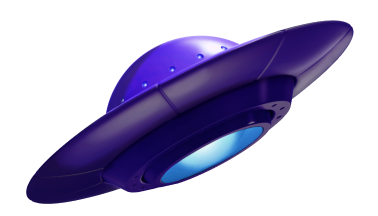
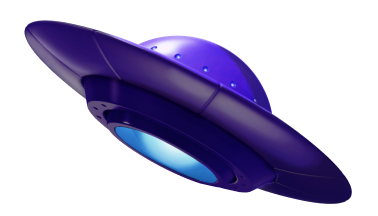
actualizacion del slider

diff --git a/src/app/components/slider/slider.component.html b/src/app/components/slider/slider.component.html
@@ -1,26 +1,45 @@
-<div class="row parallax-hidden section relative">
+<div class="row section relative slider_content">
   <div class="col">
-    <div class="absolute title_slider center">
-      <h1 class="title">
-        OVNISOLUTIONS
-      </h1>
-      <br>
-      <br>
-      <p class="subtitle">
-        Somos un equipo multidisciplinario de diseño y desarrollo web, trabajamos para darte soluciones fuera de este mundo.
-      </p>
+    <div class="row">
+      <div class="col">
+        <div class="absolute title_slider center">
+          <h1 class="title">OVNISOLUTIONS</h1>
+          <br />
+          <p class="slogan">Soluciones fuera de este mundo.</p>
+        </div>
+      </div>
     </div>
-    <ngx-parallax-scroll [config]="ParallaxSliderConfBackground" class="d-none d-md-block absolute moon_slider center">
-      <img src="assets/image/backgrounds/moon_top.png">
-    </ngx-parallax-scroll>
-    <ngx-parallax-scroll [config]="ParallaxSliderConfOvni"  class="d-none d-md-block absolute ovni_slider">
-      <img src="assets/image/backgrounds/ovni_slider.png">
-    </ngx-parallax-scroll>
-    <ngx-parallax-scroll [config]="ParallaxSliderConfPlanet"  class="d-none d-md-block absolute planet_slider">
-      <img src="assets/image/backgrounds/planeta_morado.png">
-    </ngx-parallax-scroll>
-    <ngx-parallax-scroll [config]="ParallaxSliderConfBackground" class="d-none d-md-block">
-      <img src="assets/image/backgrounds/slider.png" class="background slider relative">
-    </ngx-parallax-scroll>
+    <div class="row">
+      <div class="col">
+        <ngx-parallax-scroll
+          [config]="ParallaxSliderConfOvni"
+          class="d-none d-md-block absolute ovni_slider"
+        >
+          <img src="assets/image/backgrounds/ovni_slider.png" />
+        </ngx-parallax-scroll>
+        <div class="star_body d-flex">
+          <div class="tail"></div>
+          <div class="star"></div>
+        </div>
+        <ngx-parallax-scroll
+          [config]="ParallaxSliderConfBackground"
+          class="d-none d-md-block absolute planet"
+        >
+          <img src="assets/image/backgrounds/planet.png" />
+        </ngx-parallax-scroll>
+      </div>
+    </div>
+    <div class="row objetives">
+      <div class="col text-white pe-1 slogan">
+        Somos un equipo multidisciplinario de diseño y desarrollo web,
+        trabajamos para darte soluciones fuera de este mundo.
+      </div>
+      <div class="col ps-1 text-gray">
+        Ofreciendo los servicios de Diseño gràfico y desarrollo web con el
+        objetivo de potenciar la identidad corpoorativa. de tu empresa. Somos un
+        un equipo joven, talentoso y destacado en las áreas del diseño e la
+        informática.
+      </div>
+    </div>
   </div>
 </div>

diff --git a/src/app/components/slider/slider.component.scss b/src/app/components/slider/slider.component.scss
@@ -1,5 +1,5 @@
-.text-justify {
-  text-align: justify;
+.slogan {
+  font-size: 20px;
 }
 
 .row {
@@ -12,64 +12,108 @@
   padding: 0px;
 }
 
-.parallax-hidden {
-  overflow: hidden;
-}
-
 .section {
-  height: 650px;
+  height: 850px;
   overflow: hidden;
 }
 
-img.background {
-  width: 100%;
-  z-index: 0;
-  // min-height: 100% !important;
+.objetives {
+  position: relative;
+  padding-left: 450px;
+  padding-right: 450px;
+  top: 700px;
 }
 
 .relative {
   position: relative;
 }
 
-.slider {
-  top: -10px;
+.slider_content {
+  background: #0c0c0c;
+}
+
+.star_body {
+  position: absolute;
+  transform: rotate(25.1deg);
+  animation: shooting-star 20s linear infinite;
+}
+
+.tail {
+  width: 200px;
+  height: 1px;
+  background: linear-gradient(
+    90deg,
+    transparent 10%,
+    40%,
+    #fff 90%,
+    #b700ff 100%
+  );
+  box-shadow: 0px 0px 40px 0px #b700ff, 0px 0px 40px #00bbff,
+    0px 0px 0px #0c0c0c00;
+}
+
+.star {
+  width: 2px;
+  height: 2px;
+  background: rgba(183, 0, 255, 0.7);
+  transform: rotate(45deg);
+  box-shadow: 0px 0px 40px 0px rgba(183, 0, 255, 0.7),
+    0px 0px 40px 0px rgba(183, 0, 255, 0.7),
+    0px 0px 40px 0px rgba(183, 0, 255, 0.7),
+    0px 0px 40px 0px rgba(183, 0, 255, 0.7);
+}
+
+@keyframes shooting-star {
+  0% {
+    top: 50px;
+    left: 50px;
+    opacity: 0;
+  }
+  8% {
+    top: 50px;
+    left: 50px;
+    opacity: 0;
+  }
+  10% {
+    opacity: 1;
+  }
+  12% {
+    top: 100vh;
+    left: 100vw;
+    opacity: 0;
+  }
+  100% {
+    top: 100vh;
+    left: 100vw;
+    opacity: 0;
+  }
 }
 
 .absolute {
   position: absolute;
 }
 
-.moon_slider {
-  top: 400px;
+.planet {
+  top: 150px;
+  left: -300px;
   z-index: 2;
   width: 100%;
 }
 
 .ovni_slider {
   top: 350px;
-  left: 100px;
+  left: 690px;
   z-index: 5 !important;
 }
 
 .title_slider {
-  top: 120px;
+  top: 200px;
+  left: 600px;
   z-index: 4 !important;
-  width: 100vw;
   color: #fff;
   padding-left: 30px;
   padding-right: 30px;
   margin: 0px;
-}
-
-.planet_slider {
-  top: 350px;
-  right: 150px;
-  z-index: 1;
-}
-
-.planet_slider img {
-  width: 300px;
-  height: 300px;
 }
 
 @media only screen and (max-width: 768px) {

diff --git a/src/assets/scss/global.scss b/src/assets/scss/global.scss
@@ -56,11 +56,15 @@ p {
 
 .title {
   color: #fff;
-  font-size: 60pt;
+  font-size: 65px !important;
 }
 
 .subtitle {
   font-size: 40px !important;
+}
+
+.text-gray {
+  color: #b1b1b1;
 }
 
 .center {
